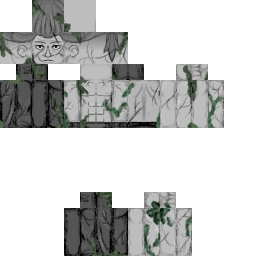
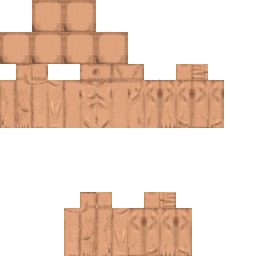
fix: pipeline de dessin 2D robuste (corps d'abord, accessoires ensuite, synchro 3D/2D, gestion images manquantes)

diff --git a/src/components/SkinPreview2D.tsx b/src/components/SkinPreview2D.tsx
@@ -77,208 +77,67 @@ const SkinPreview2D: React.FC = () => {
   const canvasRef = useRef<HTMLCanvasElement>(null);
   const { layers, colors, setLayer } = useSkinStore();
 
+  // Ajout : dispatcher l'événement dès le montage pour le 3D
+  useEffect(() => {
+    window.dispatchEvent(new Event('skin2d-ready'));
+  }, []);
+
   useEffect(() => {
     const ctx = canvasRef.current?.getContext("2d");
     if (!ctx) return;
 
-    // Taille du skin Minecraft HD
     ctx.clearRect(0, 0, 256, 256);
-    ctx.globalCompositeOperation = "source-over" as GlobalCompositeOperation;
+    ctx.globalCompositeOperation = "source-over";
 
-    // Blend mode avancé pour la colorisation
-    const blendMode = getSupportedBlendMode(ctx, "overlay", "multiply") as GlobalCompositeOperation;
-
-    // 1. Dessiner steve.png comme base (en HD si dispo, sinon upscalé)
-    const steveUrl = new URL('../assets/steve.png', import.meta.url).href;
-    const baseSkin = imageCache['steve'] || new window.Image();
-    if (!imageCache['steve']) {
-      baseSkin.src = steveUrl;
-      imageCache['steve'] = baseSkin;
+    // Préparer toutes les images à charger (corps + accessoires)
+    const imagesToLoad: Promise<void>[] = [];
+    const imageMap: Record<string, HTMLImageElement> = {};
+    // Corps
+    const bodyIdx = PARTS.findIndex(p => p.key === 'body');
+    const bodyId = layers[bodyIdx];
+    const bodyOpts = partOptions['body'] || [];
+    const body = bodyOpts.find(opt => opt.id === bodyId) || bodyOpts[0];
+    if (body && body.img) {
+      imagesToLoad.push(new Promise(resolve => {
+        const img = new window.Image();
+        img.crossOrigin = "anonymous";
+        img.src = body.img;
+        img.onload = () => { imageMap['body'] = img; resolve(); };
+        img.onerror = () => resolve();
+      }));
     }
-    baseSkin.onload = () => {
-      ctx.drawImage(baseSkin, 0, 0, 256, 256);
-      // Appliquer la couleur de peau sur tout le skin avec une opacité de 0.7
-      if (colors.skin) {
-        ctx.save();
-        ctx.globalAlpha = 0.5;
-        ctx.globalCompositeOperation = blendMode as GlobalCompositeOperation;
-        ctx.fillStyle = colors.skin;
-        ctx.fillRect(0, 0, 256, 256);
-        ctx.globalAlpha = 1.0;
-        ctx.globalCompositeOperation = "source-over" as GlobalCompositeOperation;
-        ctx.restore();
-      }
-      // Les assets sont ajoutés APRÈS la peau, donc toujours au-dessus
-      let toLoad = 0;
-      let loaded = 0;
-      const onAssetLoaded = () => {
-        loaded++;
-        if (loaded === toLoad) {
-          window.dispatchEvent(new Event('skin2d-ready'));
-        }
-      };
-      PARTS.forEach((part, idx) => {
-        const selectedId = layers[idx];
-        const opts = partOptions[part.key] || [];
-        console.log(`[2D] PART: ${part.key}, idx: ${idx}, selectedId: ${selectedId}, opts:`, opts.map(o => o.id));
-        let selected = opts.find(opt => opt.id === selectedId) || opts[0];
-        // Correction auto : si l'ID n'existe pas, corriger le layer dans le state
-        if (opts.length > 0 && !opts.find(opt => opt.id === selectedId)) {
-          console.warn(`[2D] Correction: ID '${selectedId}' inexistant pour '${part.key}', fallback sur '${opts[0].id}'`);
-          setLayer(opts[0].id, idx);
-          selected = opts[0];
-        }
-        if (!selected || !selected.img) {
-          console.error(`[2D] Aucun asset sélectionné pour '${part.key}' (selectedId: ${selectedId})`);
-          return;
-        }
-        console.log(`[2D] Asset utilisé pour '${part.key}':`, selected.id, selected.img);
-        // Typage pour _variant
-        const selectedWithVariant = selected as typeof selected & { _variant?: string };
-        if (part.key === 'body') {
-          // Afficher l'asset du corps et appliquer la couleur de peau dessus
-          toLoad++;
-          const img = imageCache[selected.img] || new window.Image();
-          if (!imageCache[selected.img]) {
-            img.crossOrigin = "anonymous";
-            img.src = selected.img;
-            imageCache[selected.img] = img;
-          }
-          const drawBody = () => {
-            const tempCtx = tempCanvas.getContext('2d');
-            if (tempCtx) {
-              // 1. Dessiner l'asset du corps
-              tempCtx.clearRect(0, 0, 256, 256);
-              tempCtx.drawImage(img, 0, 0, 256, 256);
-
-              // 2. Sauvegarder l'alpha d'origine dans un autre canvas
-              const maskCanvas = document.createElement('canvas');
-              maskCanvas.width = 256;
-              maskCanvas.height = 256;
-              const maskCtx = maskCanvas.getContext('2d');
-              maskCtx && maskCtx.drawImage(img, 0, 0, 256, 256);
-
-              // 3. Teinter avec blendMode avancé
-              if (colors.skin) {
-                tempCtx.save();
-                tempCtx.globalAlpha = 0.60;
-                tempCtx.globalCompositeOperation = blendMode as GlobalCompositeOperation;
-                tempCtx.fillStyle = colors.skin;
-                tempCtx.fillRect(0, 0, 256, 256);
-                tempCtx.globalAlpha = 1.0;
-                tempCtx.globalCompositeOperation = 'source-over' as GlobalCompositeOperation;
-                tempCtx.restore();
-              }
-
-              // 4. Appliquer le masque alpha d'origine
-              tempCtx.save();
-              tempCtx.globalCompositeOperation = 'destination-in' as GlobalCompositeOperation;
-              tempCtx.drawImage(maskCanvas, 0, 0, 256, 256);
-              tempCtx.globalCompositeOperation = 'source-over' as GlobalCompositeOperation;
-              tempCtx.restore();
-
-              // 5. Dessiner sur le canvas principal
-              ctx.drawImage(tempCanvas, 0, 0, 256, 256);
-            }
-            onAssetLoaded();
-          };
-          img.onload = drawBody;
-          if (img.complete) drawBody();
-          img.onerror = onAssetLoaded;
-          return;
-        }
-        if (part.key === 'eyes') {
-          const variant = selectedWithVariant._variant || selectedWithVariant.id.replace('yeux', 'yeux');
-          const assets = yeuxAssets[variant] || yeuxAssets[Object.keys(yeuxAssets)[0]];
-          if (!assets) return;
-          let toLoadEyes = 3, loadedEyes = 0;
-          const onEyeLayerLoaded = () => {
-            loadedEyes++;
-            if (loadedEyes === toLoadEyes) onAssetLoaded();
-          };
-          // Pour chaque calque (paupiere, blanc, pupille)
-          ['paupiere','blanc','pupille'].forEach(key => {
-            const k = key as 'paupiere' | 'blanc' | 'pupille';
-            const img = imageCache[assets[k]] || new window.Image();
-            if (!imageCache[assets[k]]) {
-              img.crossOrigin = "anonymous";
-              img.src = assets[k];
-              imageCache[assets[k]] = img;
-            }
-            const drawEyeLayer = () => {
-              const tempCtx = tempCanvas.getContext('2d');
-              if (tempCtx) {
-                tempCtx.clearRect(0, 0, 256, 256);
-                tempCtx.drawImage(img, 0, 0, 256, 256);
-                if (colors[`eyes_${key}`]) {
-                  tempCtx.save();
-                  tempCtx.globalAlpha = 0.5;
-                  tempCtx.globalCompositeOperation = blendMode as GlobalCompositeOperation;
-                  tempCtx.fillStyle = colors[`eyes_${key}`];
-                  tempCtx.fillRect(0, 0, 256, 256);
-                  tempCtx.globalAlpha = 1.0;
-                  // Appliquer le masque alpha de l'asset
-                  tempCtx.globalCompositeOperation = 'destination-in' as GlobalCompositeOperation;
-                  tempCtx.drawImage(img, 0, 0, 256, 256);
-                  tempCtx.globalCompositeOperation = 'source-over' as GlobalCompositeOperation;
-                  tempCtx.restore();
-                }
-                ctx.drawImage(tempCanvas, 0, 0, 256, 256);
-              }
-              onEyeLayerLoaded();
-            };
-            img.onload = drawEyeLayer;
-            if (img.complete) drawEyeLayer();
-            img.onerror = onEyeLayerLoaded;
-          });
-          toLoad++; // pour la logique globale
-          return; // on ne fait pas le reste pour eyes
-        }
-        toLoad++;
-        const img = imageCache[selected.img] || new window.Image();
-        if (!imageCache[selected.img]) {
+    // Autres assets
+    PARTS.forEach((part, idx) => {
+      if (part.key === 'body') return;
+      const selectedId = layers[idx];
+      const opts = partOptions[part.key] || [];
+      const selected = opts.find(opt => opt.id === selectedId) || opts[0];
+      if (selected && selected.img) {
+        imagesToLoad.push(new Promise(resolve => {
+          const img = new window.Image();
           img.crossOrigin = "anonymous";
           img.src = selected.img;
-          imageCache[selected.img] = img;
+          img.onload = () => { imageMap[part.key] = img; resolve(); };
+          img.onerror = () => resolve();
+        }));
+      }
+    });
+    // Quand toutes les images sont prêtes, on dessine dans l'ordre
+    Promise.all(imagesToLoad).then(() => {
+      // Corps
+      if (imageMap['body'] && imageMap['body'].complete && imageMap['body'].naturalWidth > 0) {
+        ctx.drawImage(imageMap['body'], 0, 0, 256, 256);
+      }
+      // Autres assets
+      PARTS.forEach((part) => {
+        if (part.key === 'body') return;
+        const img = imageMap[part.key];
+        if (img && img.complete && img.naturalWidth > 0) {
+          ctx.drawImage(img, 0, 0, 256, 256);
         }
-        const drawAsset = () => {
-          // Canvas temporaire pour colorer uniquement l'asset
-          const tempCtx = tempCanvas.getContext('2d');
-          if (tempCtx) {
-            tempCtx.clearRect(0, 0, 256, 256);
-            tempCtx.drawImage(img, 0, 0, 256, 256);
-            if (colors[part.key]) {
-              tempCtx.save();
-              tempCtx.globalAlpha = part.key === 'hairs' ? 0.6 : 0.5;
-              tempCtx.globalCompositeOperation = blendMode as GlobalCompositeOperation;
-              tempCtx.fillStyle = colors[part.key];
-              tempCtx.fillRect(0, 0, 256, 256);
-              tempCtx.globalAlpha = 1.0;
-              // Appliquer le masque alpha de l'asset
-              tempCtx.globalCompositeOperation = 'destination-in' as GlobalCompositeOperation;
-              tempCtx.drawImage(img, 0, 0, 256, 256);
-              tempCtx.globalCompositeOperation = 'source-over' as GlobalCompositeOperation;
-              tempCtx.restore();
-            }
-            // Dessine le calque coloré sur le canvas principal
-            ctx.drawImage(tempCanvas, 0, 0, 256, 256);
-          }
-          onAssetLoaded();
-        };
-        img.onload = drawAsset;
-        if (img.complete) drawAsset();
-        img.onerror = onAssetLoaded;
       });
-      if (toLoad === 0) {
-        // Aucun asset à charger, skin prêt
-        window.dispatchEvent(new Event('skin2d-ready'));
-      }
-      // Sécurité : dispatcher toujours l'événement même si aucun asset n'est chargé
-      if (toLoad === 0) {
-        window.dispatchEvent(new Event('skin2d-ready'));
-      }
-    };
-    if (baseSkin.complete) baseSkin.onload && baseSkin.onload(null as any);
+      window.dispatchEvent(new Event('skin2d-ready'));
+    });
   }, [layers, colors, setLayer]);
 
   return (
